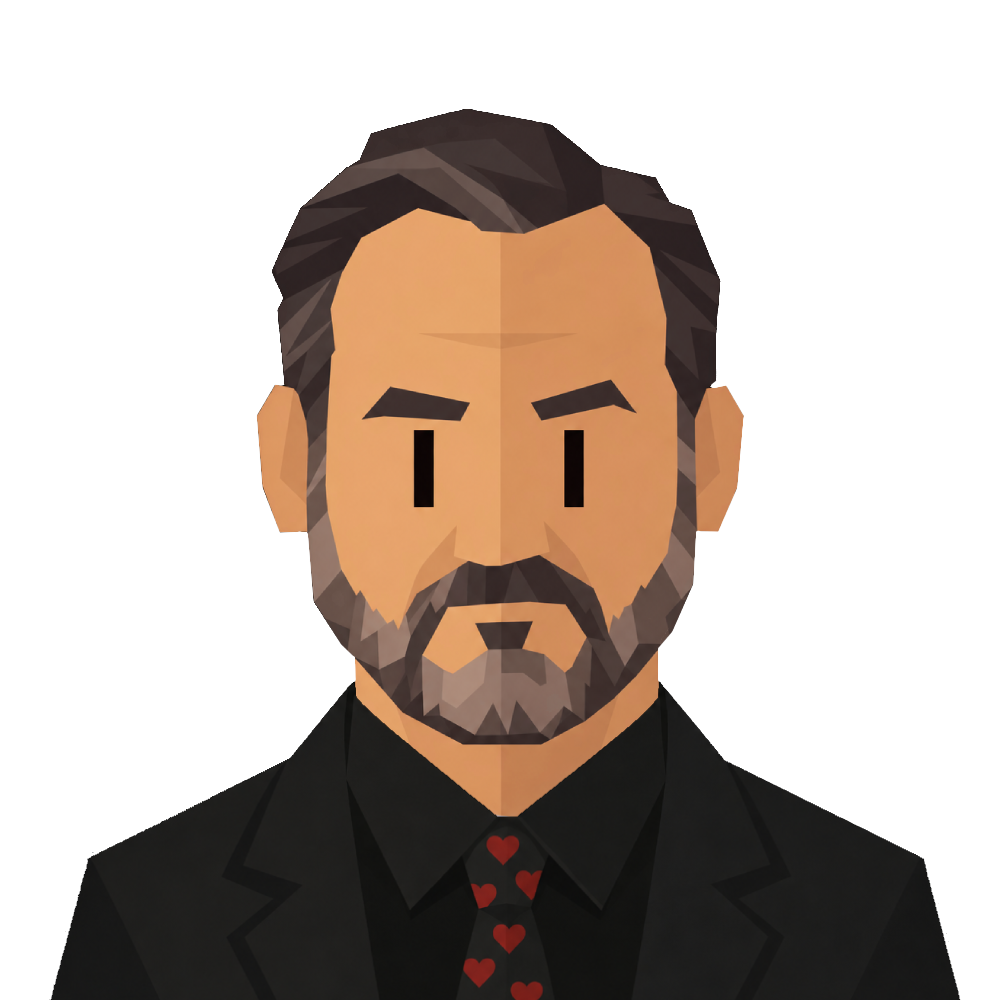
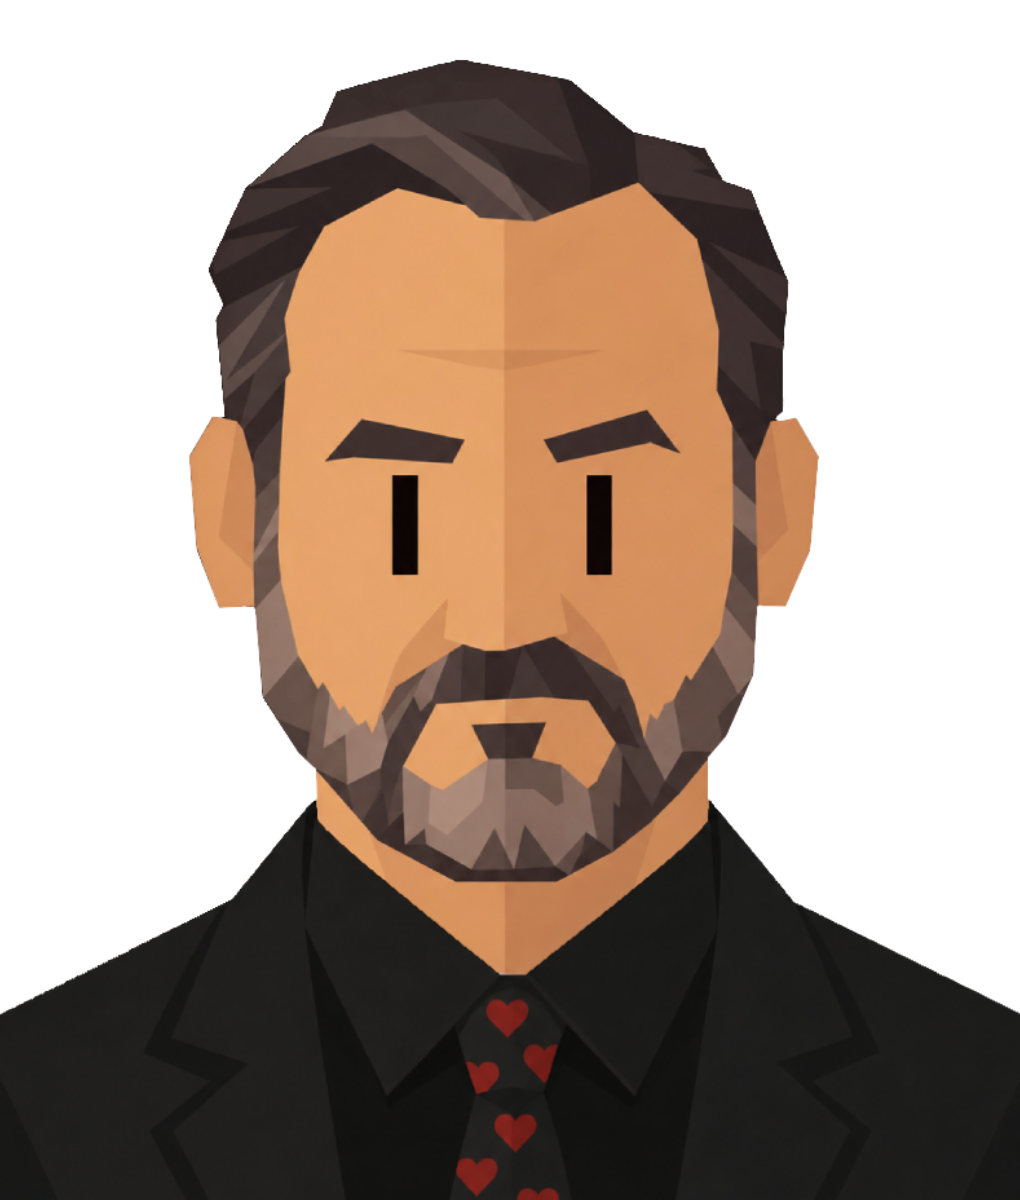
Re-encuadra todos los retratos a un lienzo común
Los PNG venían cada uno con su encuadre: unos con mucho aire sobre la cabeza
(El Expresidente salía flotando con margen verde), otros a sangre (La
Comunista Woke salía cortada al hacer zoom). Un scale fijo arreglaba unos y
rompía otros.

- scripts/normalize-portraits.mjs re-encuadra los 14 .png sobre el bounding
  box de píxeles no transparentes: lienzo 1020x1200, ~5% de aire arriba,
  torso sangrando por abajo. Ahora todos comparten plano.
- SwipeCard: fuera el scale(1.13), object-position 'center top' (con el
  encuadre común, si el hueco queda ancho el recorte se lo lleva el torso).
- README: documentada la convención de encuadre.

diff --git a/src/components/SwipeCard.tsx b/src/components/SwipeCard.tsx
@@ -214,13 +214,13 @@ export function SwipeCard({ card, onChoose, x }: Props) {
                 width: '100%',
                 height: '100%',
                 objectFit: 'cover',
-                objectPosition: 'center',
-                // Zoom fijo por encima de `cover`: los retratos no vienen
-                // todos con el mismo encuadre (algunos traen más aire sobre
-                // la cabeza). Un scale ligero se come ese margen y hace que
-                // la cara llene la carta de forma parecida en todos. El
-                // recorte extra se lo lleva el overflow:hidden de la carta.
-                transform: 'scale(1.13)',
+                // Los PNG de retrato están todos re-encuadrados al mismo
+                // lienzo (1020x1200, ~5% de aire sobre la cabeza, torso
+                // sangrando por abajo — ver scripts/normalize). Con ese
+                // encuadre común, 'center top' ancla la cara arriba: si el
+                // hueco de la carta queda ancho, el recorte se lo lleva el
+                // torso (que ya sangra) y no el pelo.
+                objectPosition: 'center top',
               }}
             />
           )}

diff --git a/README.md b/README.md
@@ -102,6 +102,13 @@ El reparto usa retratos `.png` propios salvo cinco personajes con SVG
 provisional a la espera de arte nuevo (`cunado.svg` — ahora "El Hermano" —,
 `encuestador.svg`, `juez.svg`, `periodista.svg`, `primeradama.svg`).
 
+Los `.png` están **re-encuadrados a un lienzo común** (1020×1200, poco aire
+sobre la cabeza, torso sangrando por abajo) con `scripts/normalize-portraits.mjs`,
+para que en la carta se vean todos con el mismo plano sin importar la altura
+de la ventana. Al añadir un retrato nuevo, pásale ese script (necesita `npm
+run dev` levantado). En la carta se muestran con `object-fit: cover` +
+`object-position: center top`.
+
 ### Cartas de arranque
 
 `useGameStore` elige al azar una de las cartas `presi_intro*` como primera
